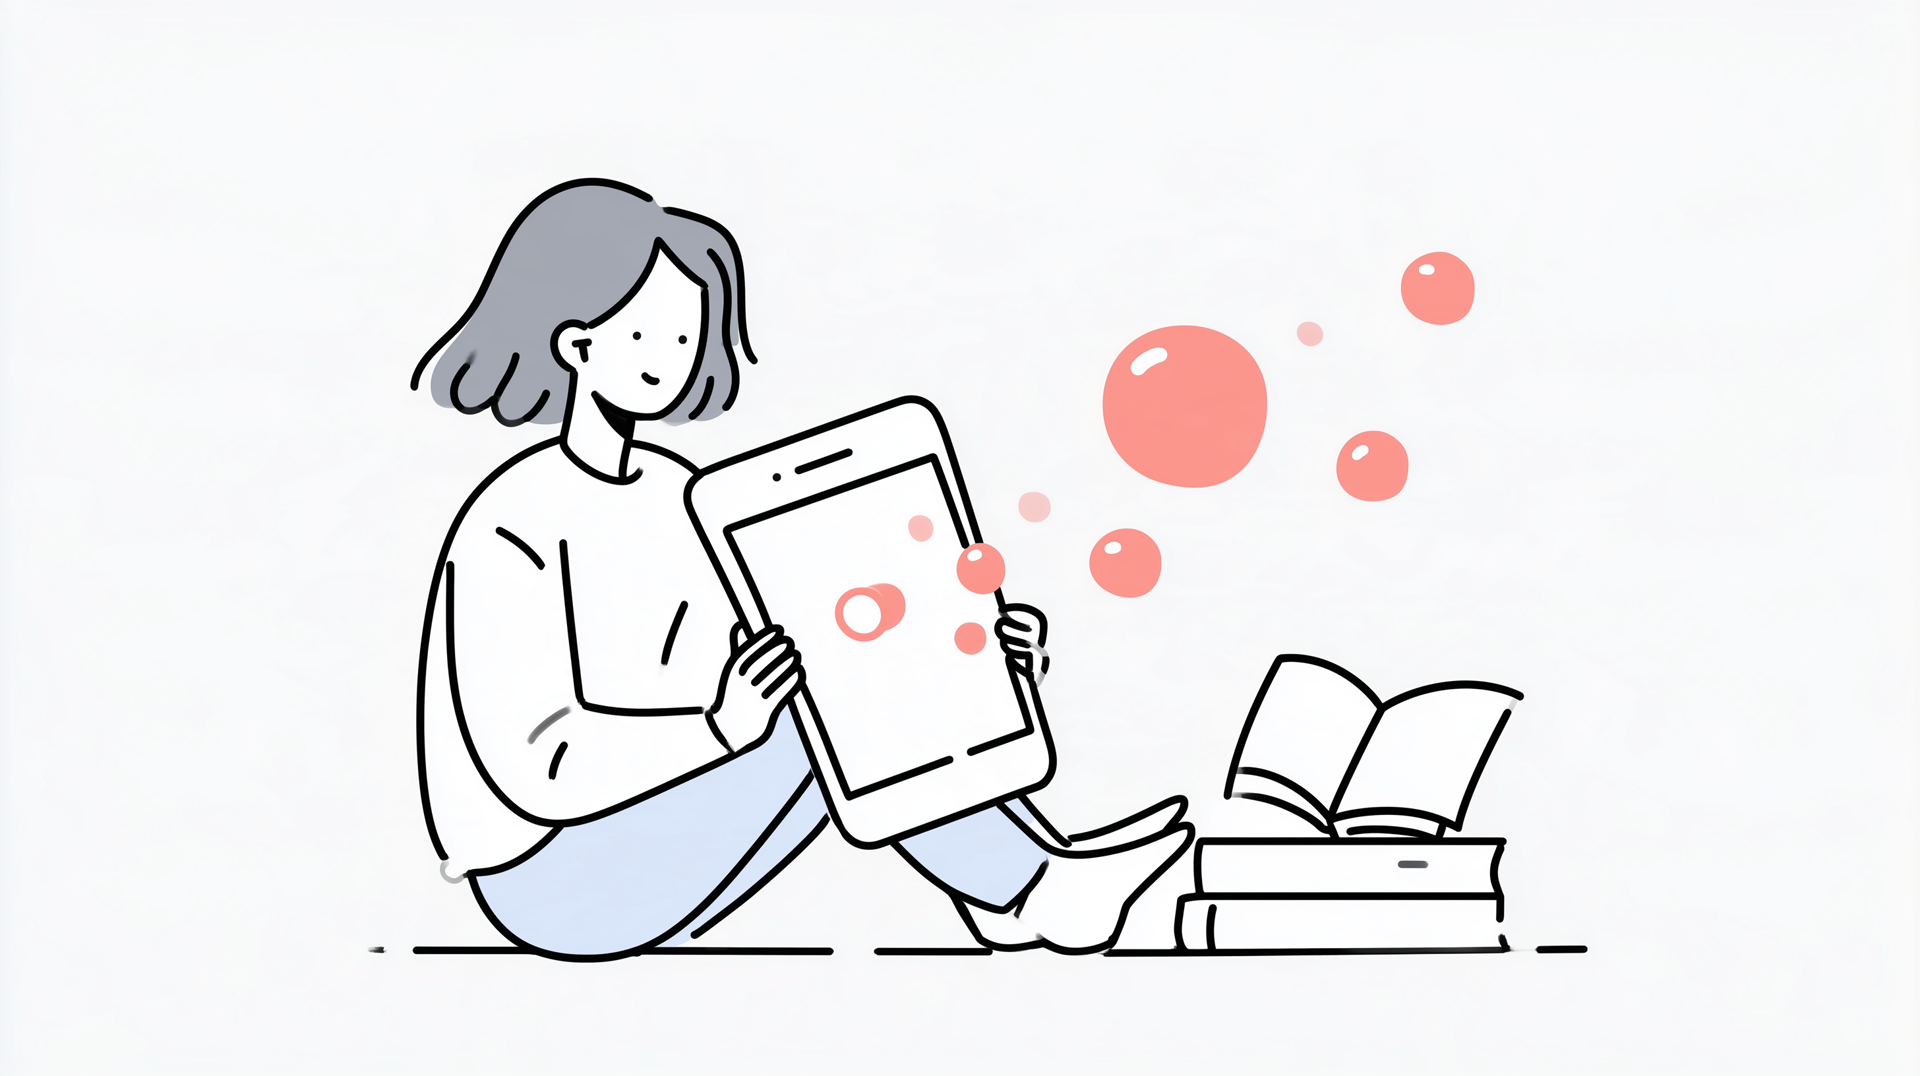
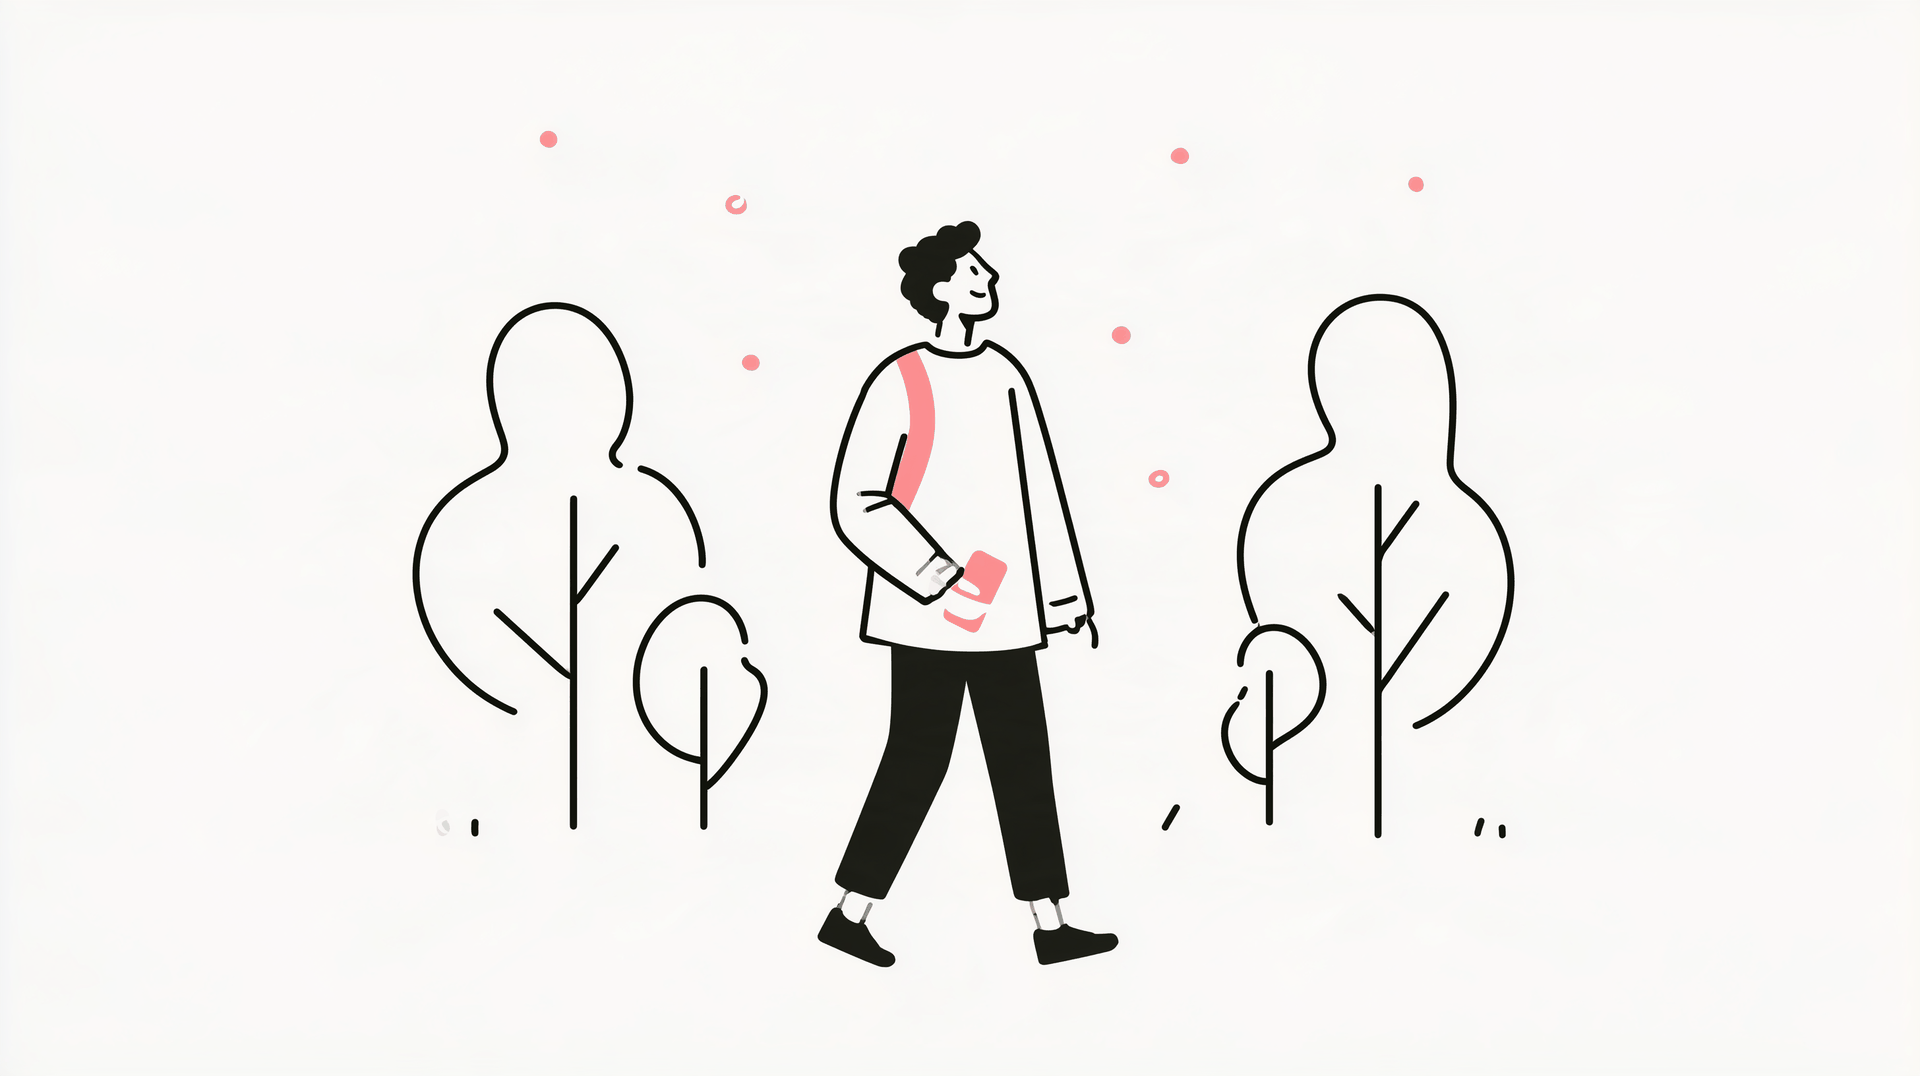
Swap FOMO/JOMO cover from Midjourney C to B (passeggiata).
Replace cover PNG and alt text only; leave publish status and body unchanged.

diff --git a/docs/editorial/prossimo-mese-seo.md b/docs/editorial/prossimo-mese-seo.md
@@ -4,7 +4,7 @@ Cadenza: 1 articolo / mercoledì. Autore: `matteo-foroni`.
 
 - **A** (30 set): published — cover D
 - **B** (7 ott): published — cover E
-- **C** (14 ott): published — cover C
+- **C** (14 ott): published — cover B
 
 Le copertine Midjourney sono in `public/images/covers/{slug}.png`.
 
@@ -41,7 +41,7 @@ Le copertine Midjourney sono in `public/images/covers/{slug}.png`.
 
 ---
 
-## C — mercoledì 14 ottobre 2026 — giovani (mix OK) — **published** (cover C)
+## C — mercoledì 14 ottobre 2026 — giovani (mix OK) — **published** (cover B)
 
 - **Slug:** `fomo-jomo-social-senza-sparire`
 - **Title:** FOMO e JOMO: come uscire dal loop senza sparire dai social
@@ -49,7 +49,7 @@ Le copertine Midjourney sono in `public/images/covers/{slug}.png`.
 - **Secondarie:** FOMO social, JOMO significato, uscire dal loop social
 - **Search intent:** informazionale + how-to. Giovane (o genitore che cerca per un figlio) che vuole capire FOMO/JOMO e abitudini, non «cancella Instagram».
 - **publishedAt:** `2026-10-14T09:00:00.000+02:00`
-- **Cover:** Midjourney C (giovane + telefono, bolle corallo che si dissolvono)
+- **Cover:** Midjourney B (passeggiata al parco, sguardo in alto, telefono ignorato)
 - **Internal link in publish:**
   - `/articoli/telefono-in-camera-notifiche-e-sonno` (FOMO a letto) — inserito
   - `/articoli/limpatto-dei-social-media-sul-benessere-e-come-gestirlo-in-modo-consapevole`
